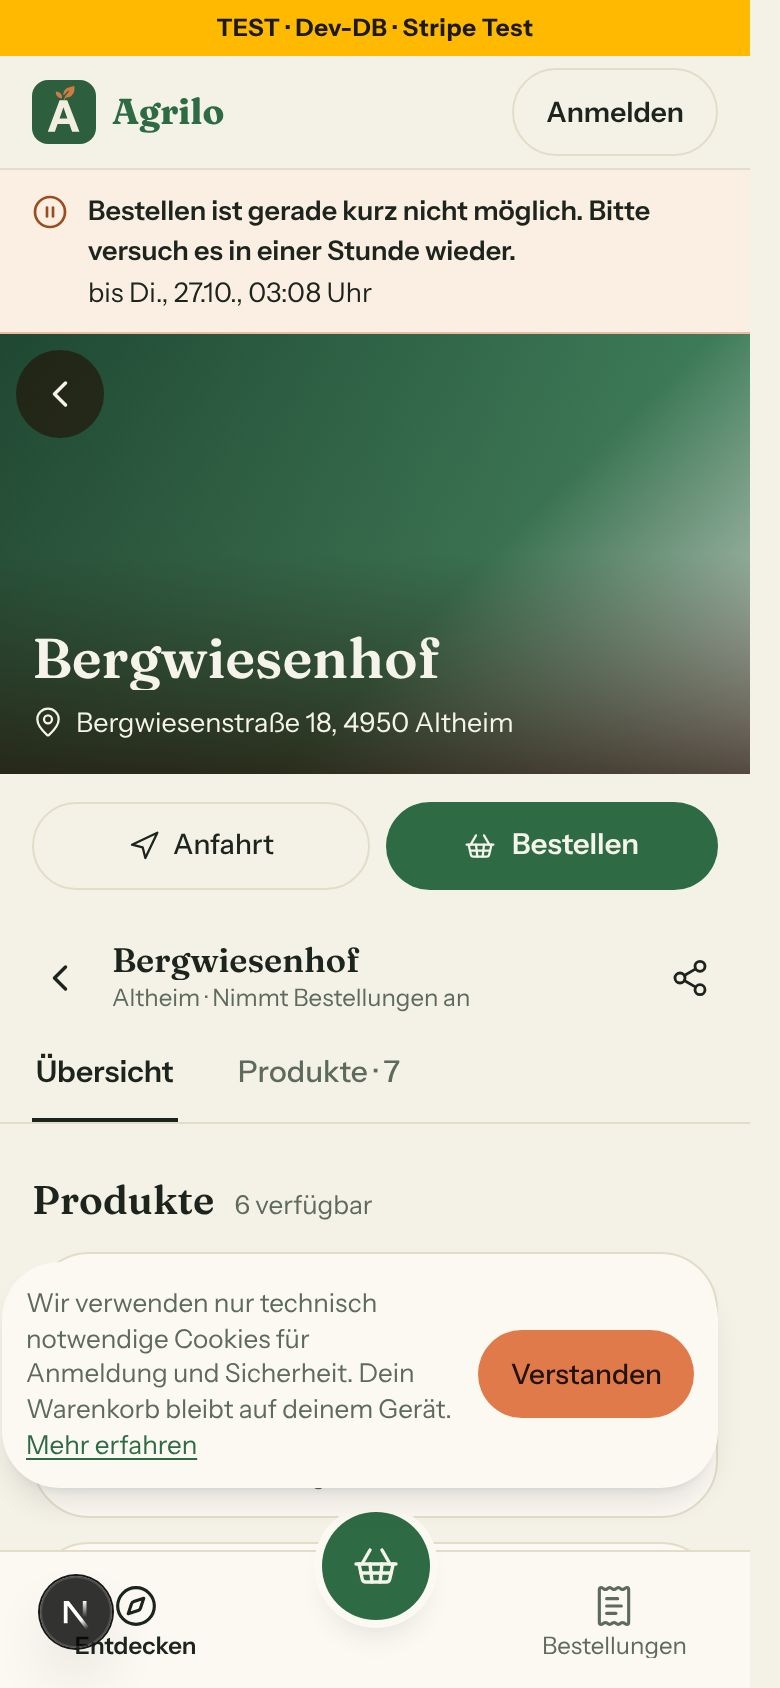
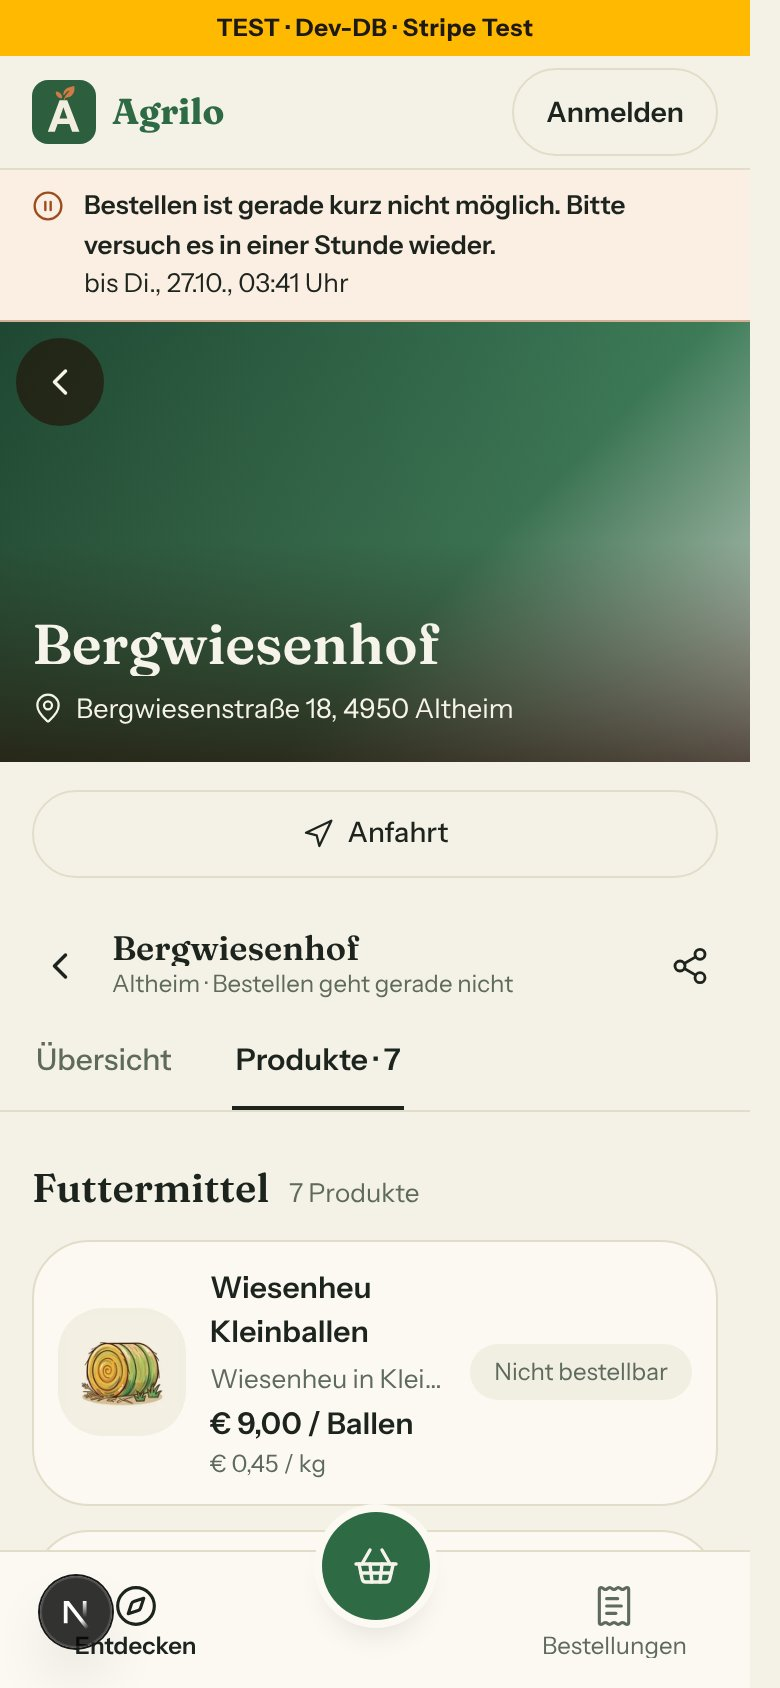
feat: Notbremse in Heute, Hofseite und neue Bilder (Nr. 189, Nachbau)
Heute: „Notbremse aktiv“ ganz oben mit „Freigeben“ (Quelle in
ADMIN_AUFGABEN, Frist = bis), „Bestellungen anhalten …“ mit Dialog bzw.
Blatt nach dem Mockup, beide mit Passkey. Hofseite: Hofzeile und
„Bestellen“ lesen useBestellstopp. Band wie die Netz-Zeile; Freigeben ohne
Änderung leert den Cache nicht. Bilder 390 hell/dunkel neu, Bericht ergänzt.

Voller Lauf grün: 619 Dateien, 11504 Tests. Integration ganz grün:
88 Dateien, 736 Tests.

Claude-Session: https://claude.ai/code/session_01SnxiF6nf8ydkGFiAzcYS5v

diff --git a/docs/nachtlauf/berichte/189.md b/docs/nachtlauf/berichte/189.md
@@ -1,46 +1,51 @@
 # Bericht 189 – Notbremse „Bestellungen anhalten“ (N34)
 
-Ausgangslage am Code bestätigt: Felder `bestellstopp*` in `PlattformEinstellung` (aus 188), Recht `notbremse`, Prüfkette in `pruefeKaufbarkeitHoefe`/`pruefeKaufbarkeitHof`; /api/checkout prüft den Hof ohne die Kette. 185 (Heute) ist nicht im Zwischenstand. Zwei abgebrochene Vorgänger-Stände geprüft und übernommen (passten zur Freigabe), fertig gestellt und belegt.
+Ausgangslage bestätigt: Felder `bestellstopp*` in `PlattformEinstellung` (188), Recht `notbremse`, Prüfkette `pruefeKaufbarkeitHoefe`/`pruefeKaufbarkeitHof`. Hauptteil (Commits 5e3117d8, dd2c19da) ohne Heute, weil 185 fehlte; Nachbau nach dem Hineinmergen von 185, 186, 187 (094cbfa5).
 
-## Dateien
-- `src/server/actions/notbremse.ts` (neu): `halteBestellungenAn` (Grund aus der Liste, Satz, „bis“ Pflicht, nach jetzt, höchstens 72 h) und `gibBestellungenFrei`; beide `verlangeAdminAktion({ frisch: true, recht: 'notbremse' })`, `protokolliere`, `updateTag`; schreiben nur die vier Felder.
-- `src/lib/notbremse.ts` (neu): Gründe, Satz-Vorgabe (Mockup), Fehlersätze, `bestellstoppAktiv` (Frist beim Lesen), `notbremseBisFehler`, „bis“ in Wiener Zeit, `sperreMitBestellstopp`; ohne Zod (Browser, Nr. 196).
-- `src/server/queries/plattform-einstellung.ts`: nur Lesen der Felder – `leseBestellstopp` (frisch, für die Kette) und `ladeBestellstopp` (gecacht unter dem Etikett der Einstellung, fürs Band).
-- `src/server/warenkorb.ts`: `pruefeBestellstopp` als ERSTE Bedingung in `pruefeKaufbarkeitHoefe` (damit auch in `pruefeKaufbarkeitHof`), Grund `notbremse`, `BESTELLSTOPP_CODE`.
-- `src/app/api/warenkorb/pruefen/route.ts`: 409 mit dem Satz, Korb und Halte bleiben unverändert.
-- `src/app/api/checkout/route.ts`: ruft `pruefeBestellstopp` nach der Idempotenz-Antwort und vor allem, was schreibt (keine eigene Regel).
-- `src/app/api/notbremse/route.ts` (neu): GET, öffentlich, nur Satz und Ende (nie Grund, Beginn, Person), Ladefehler = kein Band.
-- `src/components/notbremse-band.tsx` (neu): `NotbremseBand` (`role="status"`, Satz + „bis …“), `BestellstoppHinweis`, `useBestellstopp` (einmal holen, eine Minute merken, verschwindet zu „bis“).
-- `src/components/shells/kunde-shell.tsx`: nur das Band unter dem Kopf in KundeShell und KundeFokusShell.
-- `product-grid.tsx`, `produktdetail-kunde.tsx`, `cart-sheet.tsx`: Kaufknopf/Mengen aus, mit Grund (Hinweis bzw. Band); eine Sperre des Hofs geht vor.
-- `src/schemas/admin-aktion.ts`, `tests/admin-rechte-wache.test.ts`: Arten `bestellungen_angehalten`/`_freigegeben`, `ANZAHL_ADMIN_ACTIONS` 45 → 47.
-- Tests neu: `notbremse.test.ts` (Regeln, Kette zuerst, Wache, Band, Route), `integration/notbremse.int.test.ts` (ohne Recht abgelehnt, > 72 h abgelehnt, 72 h geht, alle drei Routen 409 mit Satz, abgelaufen offen, aufgehoben offen, abholbereit und Storno durch den Hof gehen weiter). Angepasst: 14 Route-Tests (Mock `plattformEinstellung.findUnique` → null), `hydrieren.test.ts`.
-- Doku: `docs/ai/ARCHITECTURE.md` (Prüfkette, Abschnitt Notbremse), `DEVELOPMENT.md`, `docs/ai/BAUSTEINE.md` (`pnpm bausteine`).
-- Bilder: `bilder/189/hofseite-390-hell.jpg`, `hofseite-390-dunkel.jpg` (Band auf der Hofseite).
+## Hauptteil (Dateien)
+- `src/server/actions/notbremse.ts` (neu): `halteBestellungenAn` (Grund aus der Liste, Satz, „bis“ Pflicht, ≤ 72 h) und `gibBestellungenFrei`; `verlangeAdminAktion({ frisch: true, recht: 'notbremse' })`, `protokolliere`, `updateTag`; nur die vier Felder.
+- `src/lib/notbremse.ts` (neu): Gründe, Satz-Vorgabe, Fehlersätze, `bestellstoppAktiv` (Frist beim Lesen), `notbremseBisFehler`, `sperreMitBestellstopp`; ohne Zod (Browser).
+- `src/server/queries/plattform-einstellung.ts`: `leseBestellstopp` (frisch, Kette) und `ladeBestellstopp` (gecacht, Band).
+- `src/server/warenkorb.ts`: `pruefeBestellstopp` als ERSTE Bedingung; `/api/warenkorb/pruefen` 409 mit Satz; `/api/checkout` ruft dieselbe Funktion vor allem, was schreibt.
+- `src/app/api/notbremse/route.ts` (neu), `src/components/notbremse-band.tsx` (neu), `kunde-shell.tsx` (Band), `product-grid.tsx`, `produktdetail-kunde.tsx`, `cart-sheet.tsx` (Kaufknopf aus mit Grund).
+- `src/schemas/admin-aktion.ts`: Arten `bestellungen_angehalten`/`_freigegeben`, 47 Admin-Actions.
 
-## Abweichungen (nicht wesentlich, gebaut)
-- Zusätzliche Dateien außerhalb der Liste: `src/lib/notbremse.ts`, `src/app/api/notbremse/route.ts`, die zwei Routen. Ursache: Die Kundenseiten sind gecacht und die Shell ist Client-Code; das Band braucht den Stand im Browser, eine Action ohne Sitzung lässt die Actions-Wache nicht zu. /api/checkout kennt die Kette nicht, darum ein Aufruf derselben Funktion statt „ohne eigene Zeile“.
-- Die Kette liest frisch (`leseBestellstopp`), nicht aus dem Cache: Durchsetzung nie mit altem Stand; der Cache mit Etikett gilt nur fürs Band.
-- „ohne Recht → 403“ / „> 72 h → 400“: Server Actions antworten mit Fehlersatz statt HTTP-Code; getestet als Ablehnung ohne Schreiben und ohne Eintrag.
-
-## Nicht gelöst
-- Knopf und Blatt in Heute (Punkt 4): 185 ist nicht im Zwischenstand – Actions gebaut und getestet, UI folgt mit/nach 185 (Nacharbeit).
-- Hofseite zeigt unter dem Band weiter „Nimmt Bestellungen an“ und den Knopf „Bestellen“ (springt zu den Produkten); Status-Zeile kommt vom Server, außerhalb der Dateigrenze (Nacharbeit, Vorschlag: Status-Zeile liest `useBestellstopp`).
+## Nachbau (Dateien)
+- `src/lib/admin-aufgaben.ts`: Quelle `notbremse_aktiv` in `ADMIN_AUFGABEN` (Frist = „bis“, Bereich Betrieb, Grund als Bezug, Satz der Kundschaft), `sammleAufgaben` stellt sie ganz oben, `fristText` sagt „bis … Uhr“, `WAS_TUN.freigeben`, zwei Protokoll-Texte.
+- `src/server/queries/admin-heute.ts`: liest `leseBestellstopp` frisch mit den anderen Quellen (auch für die Zahl der Betriebsleiste).
+- `src/components/admin/heute-notbremse.tsx` (neu): `NotbremseAnhalten` (Kopf ab 768 px bzw. Karte „Notfall“ am Handy, Dialog/Blatt über `BestellDialog`, Grund aus der Liste, Satz aus `NOTBREMSE_SATZ_VORGABE`, „bis“ Pflicht mit min/max ≤ 72 h), `NotbremseFreigeben`, `NotbremseFormular`; beide Actions über `useFrischBestaetigt`.
+- `src/components/admin/heute-braucht-dich.tsx`: bei `freigeben` der Knopf statt Link. `src/app/admin/page.tsx`: Knopf im Seitenkopf, Karte „Notfall“ unten (Mockups admin-heute, mobil-admin-heute).
+- `src/lib/notbremse.ts`: `NOTBREMSE_ADMIN_TEXT` (Wörter der Mockups), `zeitpunktLokal`/`zeitpunktAusLokal` (Wiener Zeit), `notbremseBisVorgabe`, `notbremseBisGrenzen`, `notbremseEingabe`.
+- `src/lib/hofseite-orientierung.ts`, `src/components/hofseite/hofseite-kunde.tsx`: Hofzeile „Bestellen geht gerade nicht“, „Bestellen“/„Jetzt bestellen“ und „+“ fehlen während der Notbremse (`useBestellstopp`); Sperre des Hofs geht vor.
+- `src/components/notbremse-band.tsx`: Band wie NetzZeile (13 px, `size-4`, Rand `border-zustand-tun/40`). `src/server/actions/notbremse.ts`: `updateTag` beim Freigeben nur bei `geaendert > 0`.
+- Tests: `admin-aufgaben` (Quelle, ganz oben, Frist, Gegenprobe abgelaufen/aufgehoben, Protokoll), `admin-heute` (Seite mit/ohne Notbremse), `notbremse` (Formular, Eingabe, „bis“-Grenzen, kein `updateTag` ohne Änderung), `notbremse-hofseite` (neu, Hofzeile/„Bestellen“/Karten mit Gegenprobe).
+- Bilder `bilder/189/hofseite-390-hell.jpg`, `-dunkel.jpg` neu: nach „Verstanden“, Band, Hofzeile „Bestellen geht gerade nicht“, Produktkarte mit ruhendem „Nicht bestellbar“.
 
 ## Annahmen
-- Satz für die Kundschaft höchstens 200 Zeichen, ohne E-Mail/Telefon (`ohnePersonendaten`); neue Notbremse ersetzt eine laufende.
+- Satz ≤ 200 Zeichen, ohne E-Mail/Telefon; eine neue Notbremse ersetzt die laufende.
+- „bis“ im Feld in Wiener Zeit (Lint-Regel „Tage und Wochen“), Vorgabe die volle Stunde nach einer Stunde; Hinweis „Wiener Zeit“ unter dem Feld.
+- Knopf „Bestellungen anhalten …“ ab 768 px im Kopf, darunter als Karte „Notfall“ (Grenze wie Dialog/Blatt).
+
+## Nicht gelöst / Nacharbeit
+- Mini-Warenkorb der Seitenspalte (ab lg) zeigt während der Notbremse weiter „Zur Kasse“; die Kasse lehnt am Server ab und zeigt das Band. Außerhalb des Nachbau-Auftrags (Vorschlag: `BestellstoppHinweis` dort wie im Korb-Blatt).
+- Admin-Bilder macht die Projektleitung in der Vorschau.
 
 ## Testschritte (Vorschau)
-1. In der DB (oder nach 185 über Heute) Notbremse setzen; Hofseite öffnen: Band unter dem Kopf, „In den Korb“ aus. 2. Korb-Blatt und Produktseite: Hinweis statt „Zur Kasse“/Kaufen. 3. /api/reserve, /api/warenkorb/pruefen, /api/checkout: 409 mit dem Satz. 4. „bis“ vorbei → alles wieder offen, ohne Schreiben.
+1. /admin am Handy: unten „Notfall“ → „Bestellungen anhalten …“ → Blatt mit Grund, vorbelegtem Satz, „Bis spätestens“ → „Mit Passkey anhalten“ → Passkey. Ab 768 px derselbe Knopf neben dem Stand, als Dialog.
+2. Danach steht „Notbremse aktiv“ ganz oben in „Braucht dich“ mit „bis … Uhr“ und „Freigeben“; Protokoll „Bestellungen angehalten“.
+3. Hofseite (390): Band unter dem Kopf, Hofzeile „Bestellen geht gerade nicht“, kein „Bestellen“, Karten „Nicht bestellbar“.
+4. „Freigeben“ → Passkey → Aufgabe weg, Hofseite wieder offen (nach höchstens einer Minute im offenen Browser).
 
-**Alle Einstiege geprüft:** Halte anlegen: `/api/reserve` (`pruefeKaufbarkeitHof`), `erneuereHalte` nur aus `/api/warenkorb/pruefen` nach der Kette; bestellen: `order.create` nur in `/api/checkout` (`pruefeBestellstopp`). Status, Abholung, Storno gehen an der Kette vorbei (Integrationstest).
+**Alle Einstiege geprüft:** Halte anlegen: `/api/reserve` (`pruefeKaufbarkeitHof`), `erneuereHalte` nur aus `/api/warenkorb/pruefen` nach der Kette; bestellen: `order.create` nur in `/api/checkout` (`pruefeBestellstopp`). Status, Abholung, Storno gehen an der Kette vorbei (Integrationstest). Der Nachbau ändert die Kette nicht.
 
-Migration: nein · Paket: nein · Variable: nein. Bilder-DB: Migrationen 20261024100000 und 20261026100000 lokal eingespielt (unter dem Lock), Notbremse gesetzt und zurückgesetzt (geprüft: 0 Zeilen gesetzt).
+Migration: nein · Paket: nein · Variable: nein. Bilder-DB: Notbremse unter dem Lock gesetzt und zurückgesetzt (geprüft: 0 Zeilen gesetzt).
 
-**Regelvorschlag:** Für Nummern, die den Stand im Browser brauchen, die öffentliche Lese-Route in der Freigabe-Dateiliste mitnennen.
+Angepasste .md: `docs/ai/ARCHITECTURE.md` (Notbremse: Hofseite, Heute), `DEVELOPMENT.md` (Nachbau), `docs/ai/BAUSTEINE.md` (`pnpm bausteine`).
 
-Wiederverwendet: Prüfkette, `verlangeAdminAktion`, `protokolliere`, `ohnePersonendaten`, `Hinweiskarte`, Kaufsperre-Ruhezustand (`kartenZustand`). Neu, weil: Notbremse gilt plattformweit und braucht Frist beim Lesen im Browser.
+**Regelvorschlag:** Nummern, die eine Aufgabe in Heute brauchen, nennen `src/lib/admin-aufgaben.ts`, die Abfrage und `src/app/admin/page.tsx` in der Dateiliste (hier nur `heute-*.tsx`).
 
-Voller Lauf grün: 612 Dateien, 11368 Tests. Integration ganz grün: 86 Dateien, 729 Tests.
+Wiederverwendet: `BestellDialog`, `useFrischBestaetigt`, `aktionOhneWurf`, `FELD`/`KNOPF_RAHMEN`, `wienerZeitpunkt`, `kalendertagInWien`, `uhrzeitInWien`, `useBestellstopp`, `bestellstoppBisText`. Neu, weil: ein Formular mit „bis“ als Zeitpunkt gab es im Admin noch nicht.
 
-`git diff --name-only 2db29276..HEAD`: die oben genannten Dateien plus dieser Bericht und die zwei Bilder.
+Integration ganz grün: 88 Dateien, 736 Tests. Voller Lauf grün: 619 Dateien, 11504 Tests.
+
+`git diff --name-only 094cbfa5..HEAD`: DEVELOPMENT.md, docs/ai/ARCHITECTURE.md, docs/ai/BAUSTEINE.md, docs/nachtlauf/berichte/189.md, die zwei Bilder, src/app/admin/page.tsx, src/components/admin/heute-braucht-dich.tsx, src/components/admin/heute-notbremse.tsx, src/components/hofseite/hofseite-kunde.tsx, src/components/notbremse-band.tsx, src/lib/admin-aufgaben.ts, src/lib/hofseite-orientierung.ts, src/lib/notbremse.ts, src/server/actions/notbremse.ts, src/server/queries/admin-heute.ts, tests/admin-aufgaben.test.ts, tests/admin-heute.test.ts, tests/notbremse-hofseite.test.ts, tests/notbremse.test.ts.
